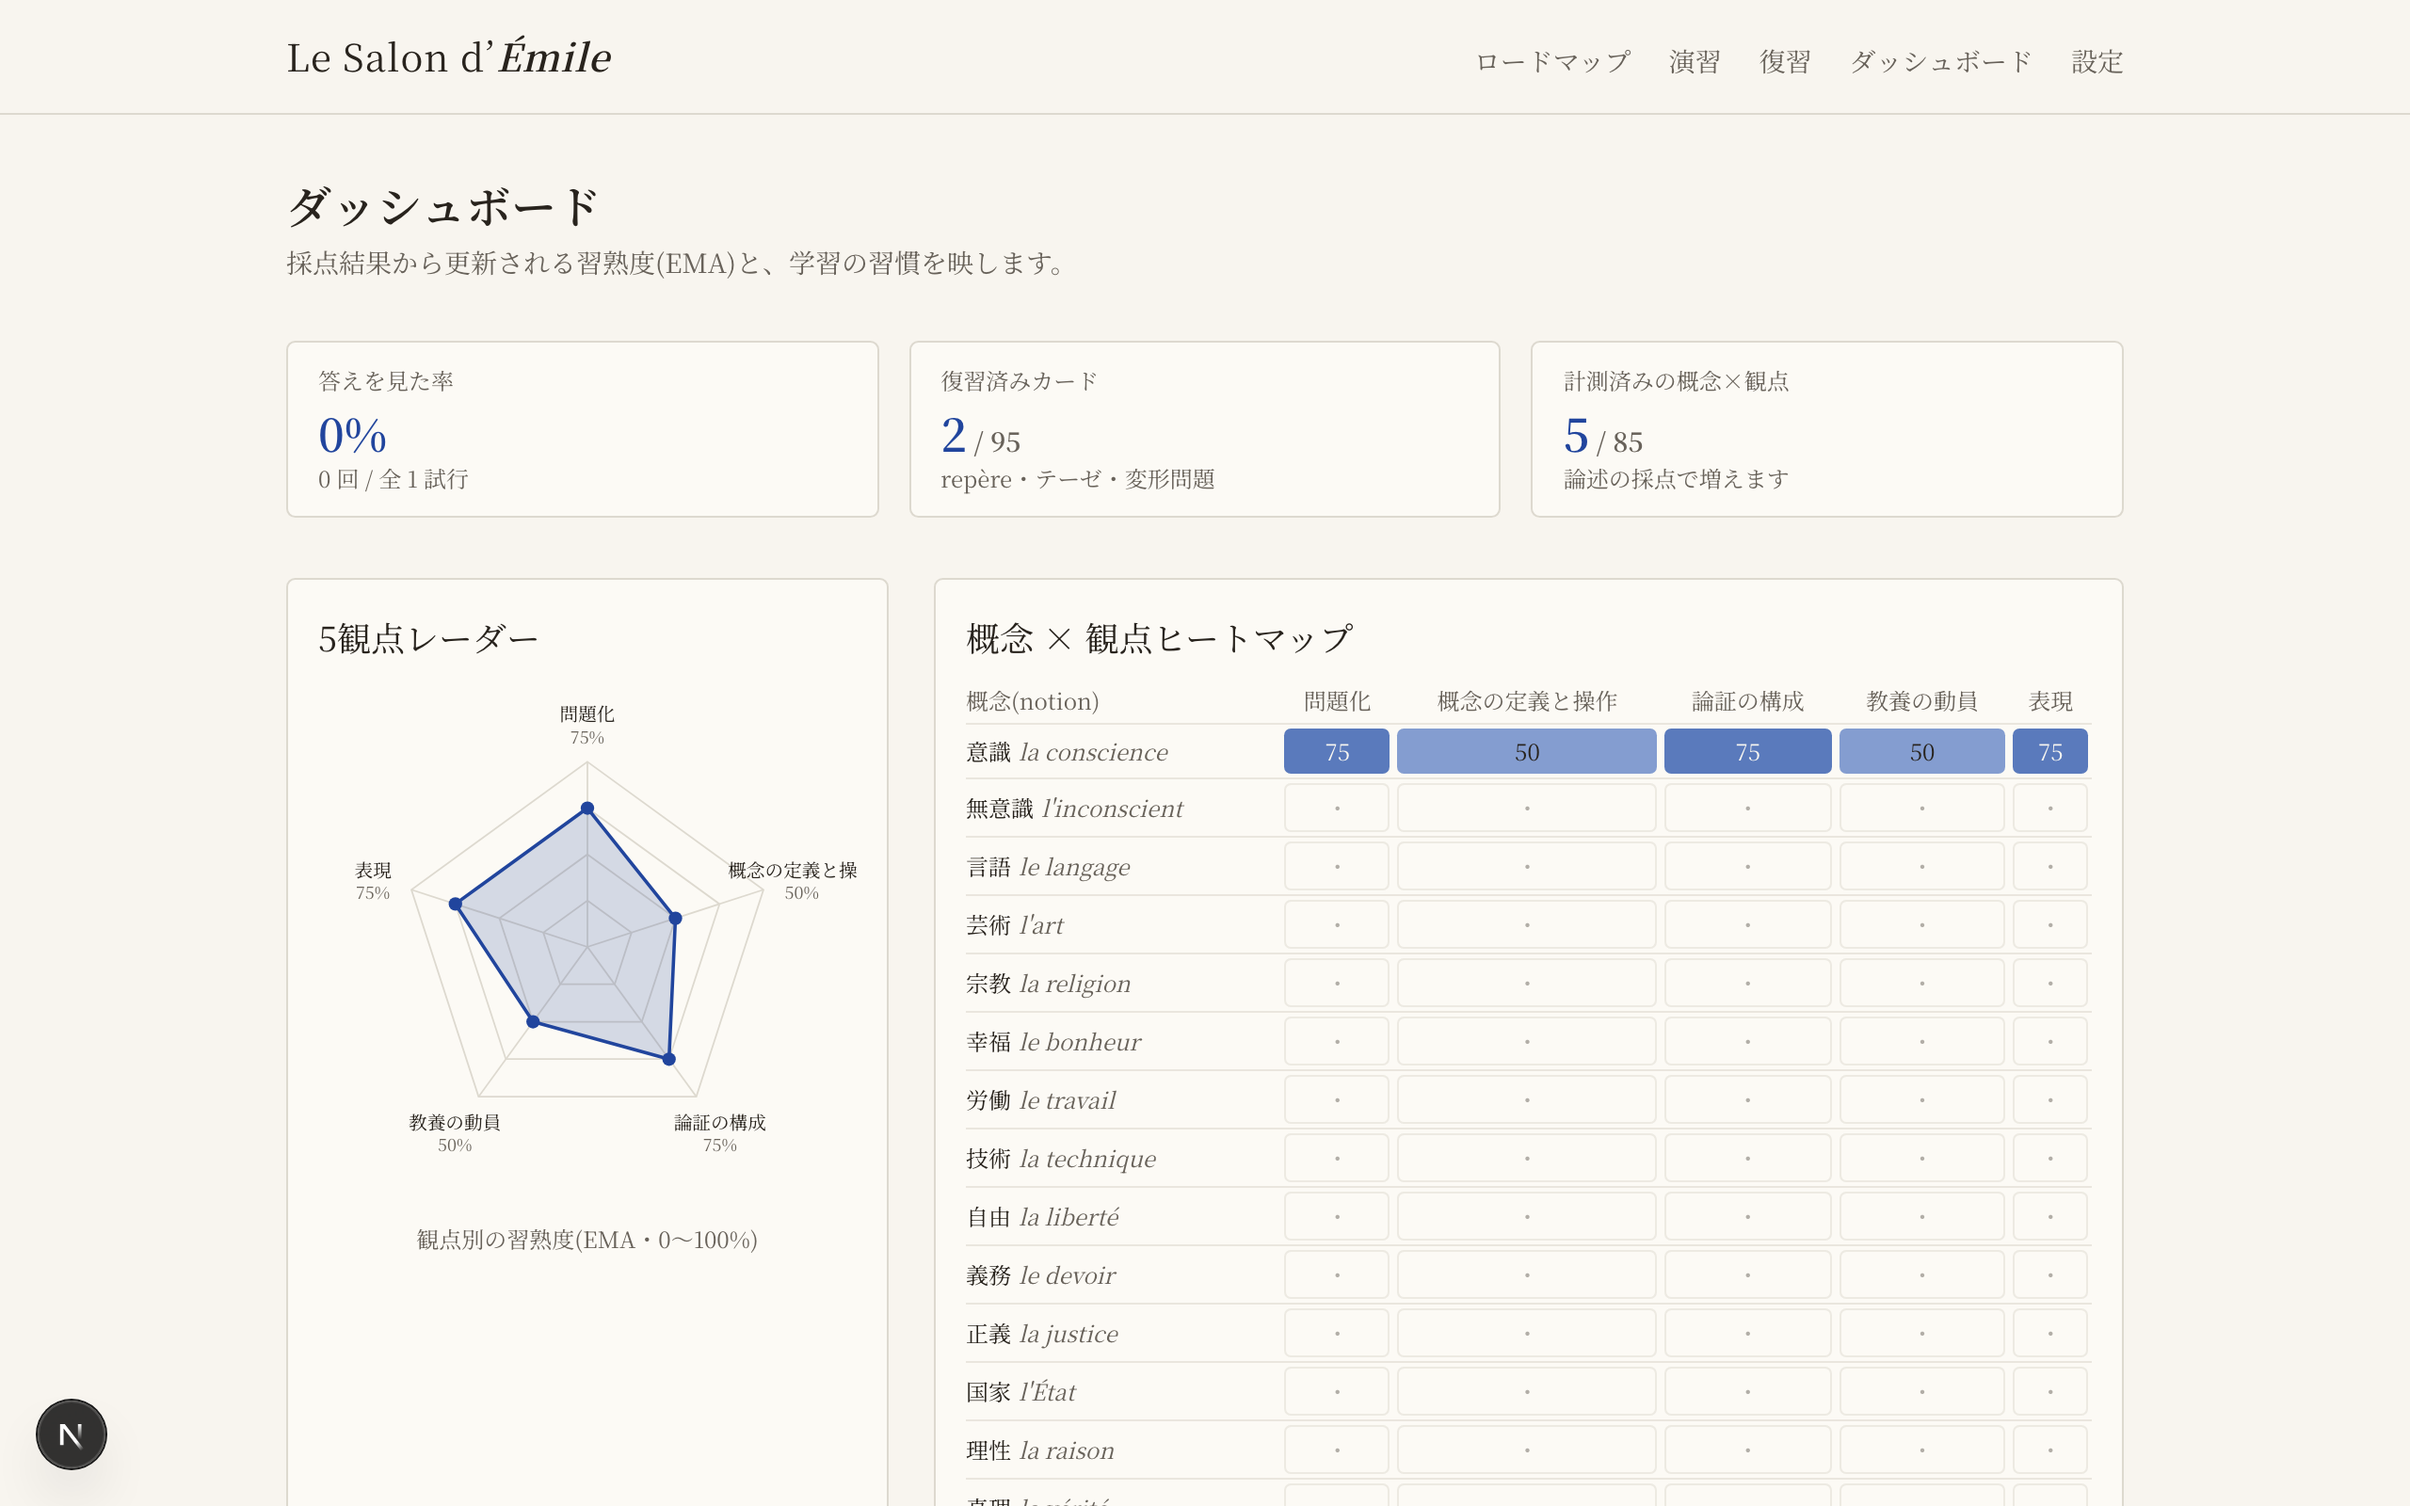
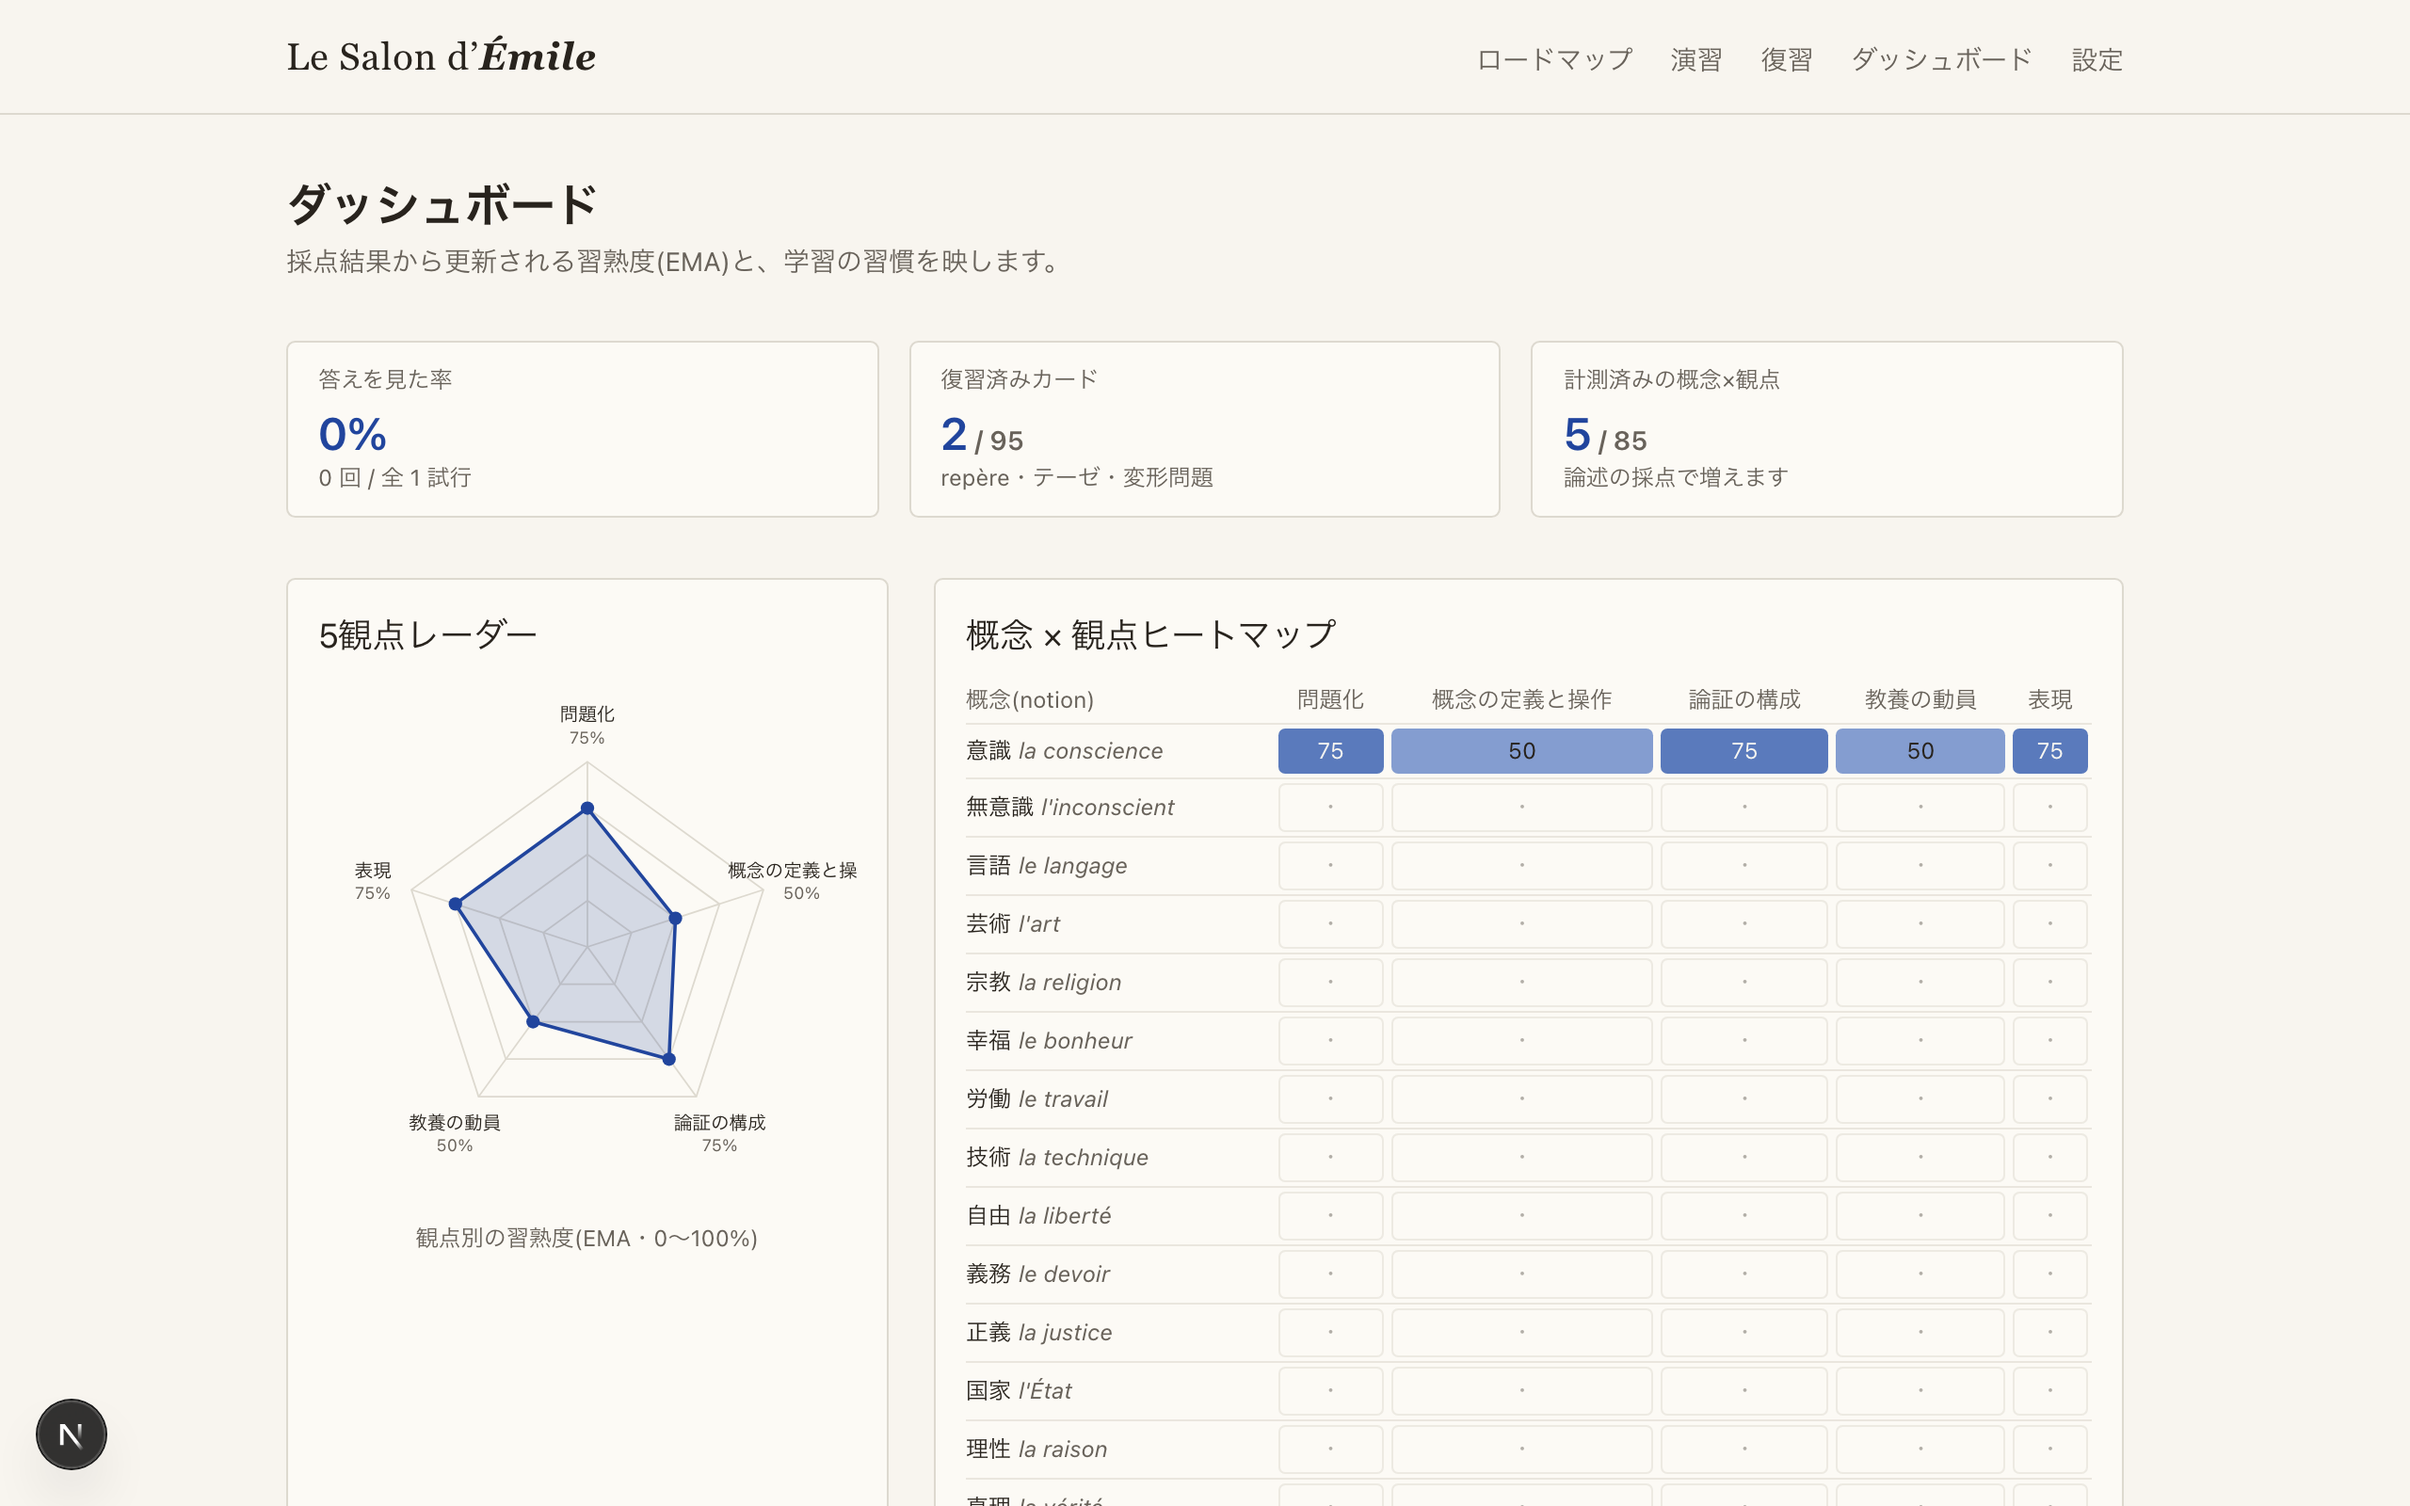
style: switch body typography to the system sans-serif stack
Helvetica / Hiragino Sans / Meiryo per learner preference; the serif
italic survives only in the Emile logotype. Drops the Google Fonts
build-time dependency. CLAUDE.md style rule and READMEs updated;
screenshots regenerated.

diff --git a/src/app/layout.tsx b/src/app/layout.tsx
@@ -1,14 +1,6 @@
 import type { Metadata } from "next";
-import { Noto_Serif_JP } from "next/font/google";
 import Link from "next/link";
 import "./globals.css";
-
-const notoSerifJp = Noto_Serif_JP({
-  variable: "--font-noto-serif-jp",
-  weight: ["400", "500", "600", "700"],
-  subsets: ["latin"],
-  display: "swap",
-});
 
 export const metadata: Metadata = {
   title: "Le Salon d'Émile — エミールのサロン",
@@ -30,11 +22,12 @@ export default function RootLayout({
   children: React.ReactNode;
 }>) {
   return (
-    <html lang="ja" className={`${notoSerifJp.variable} h-full antialiased`}>
+    <html lang="ja" className="h-full antialiased">
       <body className="min-h-full flex flex-col bg-background text-foreground">
         <header className="border-b border-border">
           <div className="mx-auto flex max-w-5xl items-baseline justify-between gap-6 px-6 py-4">
-            <Link href="/" className="shrink-0 text-xl tracking-wide">
+            {/* The logotype keeps its serif identity; the body is sans. */}
+            <Link href="/" className="shrink-0 font-serif text-xl tracking-wide">
               Le Salon d&rsquo;<em className="italic font-semibold">Émile</em>
             </Link>
             <nav className="flex flex-wrap gap-x-5 gap-y-1 text-sm">

diff --git a/src/app/globals.css b/src/app/globals.css
@@ -7,7 +7,8 @@
 @theme inline {
   --color-background: var(--background);
   --color-foreground: var(--foreground);
-  --font-sans: var(--font-noto-serif-jp), "Noto Serif JP", "Hiragino Mincho ProN", serif;
+  --font-sans: -apple-system, BlinkMacSystemFont, "Helvetica Neue", Helvetica, Arial, "Hiragino Kaku Gothic ProN", "Hiragino Sans", Meiryo, sans-serif;
+  --font-serif: Georgia, "Times New Roman", "Hiragino Mincho ProN", "Yu Mincho", serif;
   --font-mono: var(--font-geist-mono);
   --font-heading: var(--font-sans);
   --color-sidebar-ring: var(--sidebar-ring);

diff --git a/docs/decisions.md b/docs/decisions.md
@@ -19,3 +19,4 @@ Ambiguities resolved autonomously per CLAUDE.md / GOAL_PROMPT.md. One line each:
 - 2026-07-17: Third provider `claude-code` (Claude Agent SDK) added so the app can run on a Claude Pro/Max subscription for local personal use — dialogue history is serialized into one prompt per query, advance_step is an SDK MCP tool, structured output uses the CLI's json_schema mode (draft-7, `$schema` stripped — the CLI validator rejects the 2020-12 marker). Selected explicitly via LLM_PROVIDER=claude-code, never auto-detected.
 - 2026-07-17: Learner feedback rework — /lessons/[n] is now a textbook reading page (all canon sections + AI model answers per canonical question, generated once and cached; role `modelAnswer` on the grader slot); the dialogue moved to /lessons/[n]/dialogue with a learner-initiated advance button (same server-side production gate as the tutor tool), visible step goals, and a 2–3-exchanges-per-step pacing instruction; the roadmap shows in-progress runs (対話中 n/6).
 - 2026-07-17: The reveal guardrail (event + forced variant) stays scoped to *practice*; reading model answers on the textbook page is intentionally friction-free — the learner explicitly asked for a textbook to study from, and the textbook nudges self-attempt in copy instead (ADR 0007 amended).
+- 2026-07-17: Body typography switched from Noto Serif JP to the system sans-serif stack (Helvetica / Hiragino Sans / Meiryo) at the learner's request; the serif italic remains only in the Émile logotype. Also removes the Google Fonts build-time dependency. CLAUDE.md style rule updated to match.

diff --git a/CLAUDE.md b/CLAUDE.md
@@ -41,7 +41,7 @@ pnpm db:migrate / db:seed / db:verify
 - Conventional Commits。小さくコミット。
 - 公開関数・モジュール先頭にJSDoc。モジュール境界を尊重(ui / server / db / llm / domain)。
 - `any` 禁止。エラーは握りつぶさない。
-- ビジュアルは「紙とインク」: 温白/墨+群青1色、本文セリフ体(Noto Serif JP)、紙吹雪等のゲーミフィケーション演出禁止。
+- ビジュアルは「紙とインク」: 温白/墨+群青1色、本文サンセリフ体(システムフォント: Helvetica・Hiragino Sans・Meiryo系)、ロゴタイプの Émile のみセリフ・イタリック、紙吹雪等のゲーミフィケーション演出禁止。
 
 ## 判断の記録
 

diff --git a/README.md b/README.md
@@ -158,7 +158,8 @@ Seven ADRs document the load-bearing decisions —
 [the negative-education guardrails](./docs/adr/0007-guardrails.md).
 
 The visual language is "paper and ink": warm white, sumi ink, a single ultramarine
-accent, serif body text (Noto Serif JP) — and deliberately no confetti.
+accent, system sans-serif body text (the serif italic survives only in the
+logotype's *Émile*) — and deliberately no confetti.
 
 ## License
 
